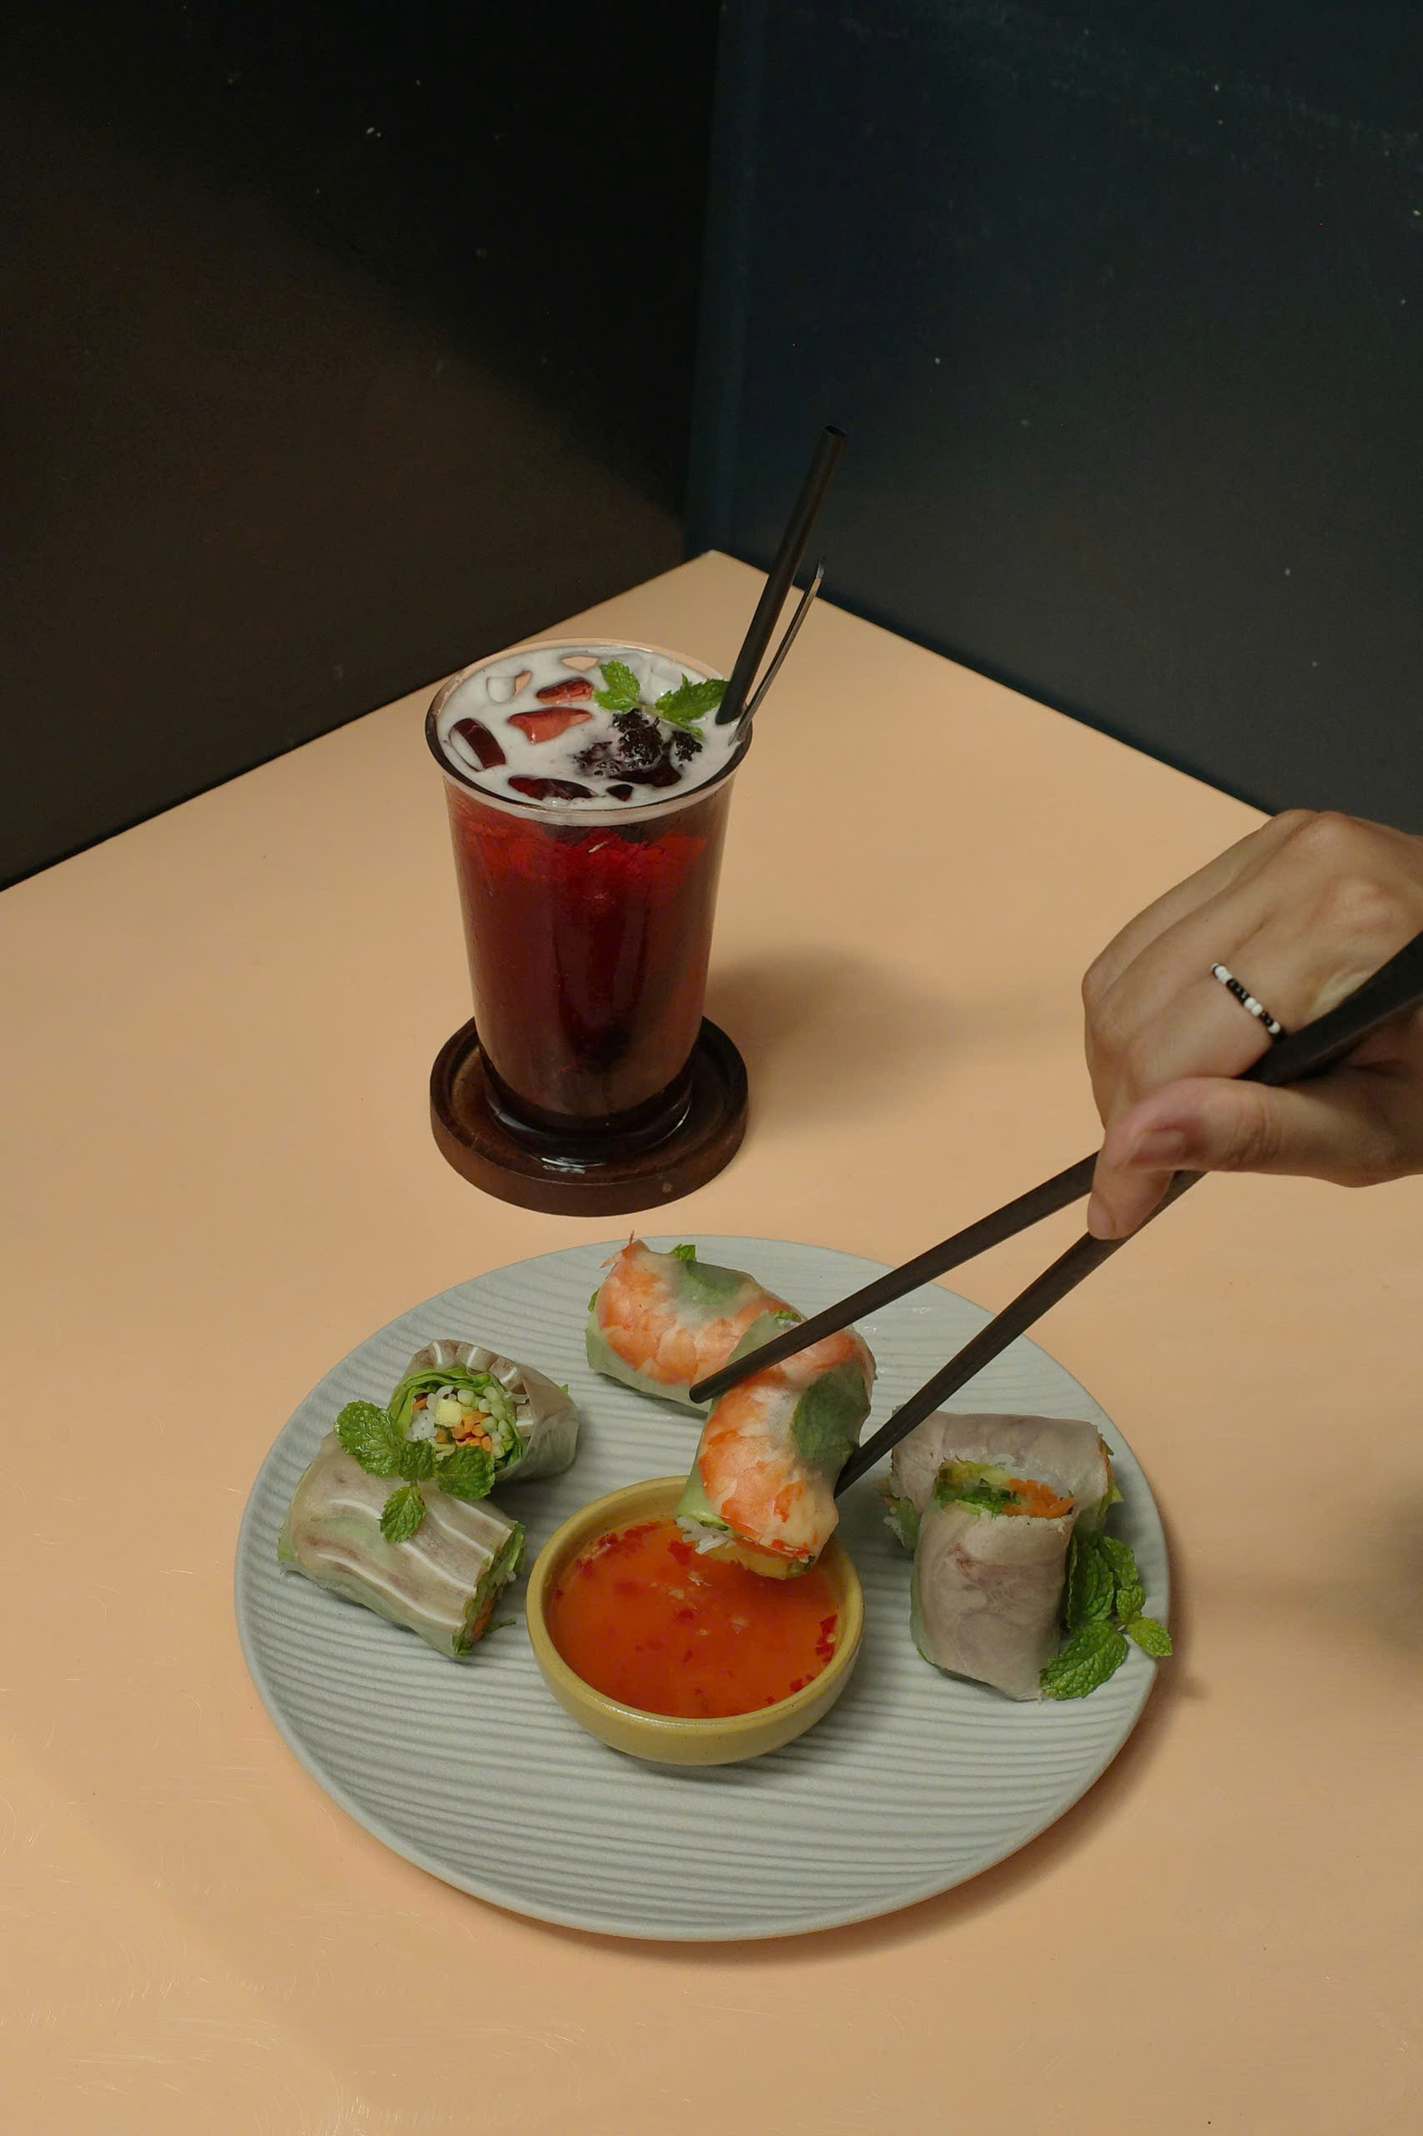
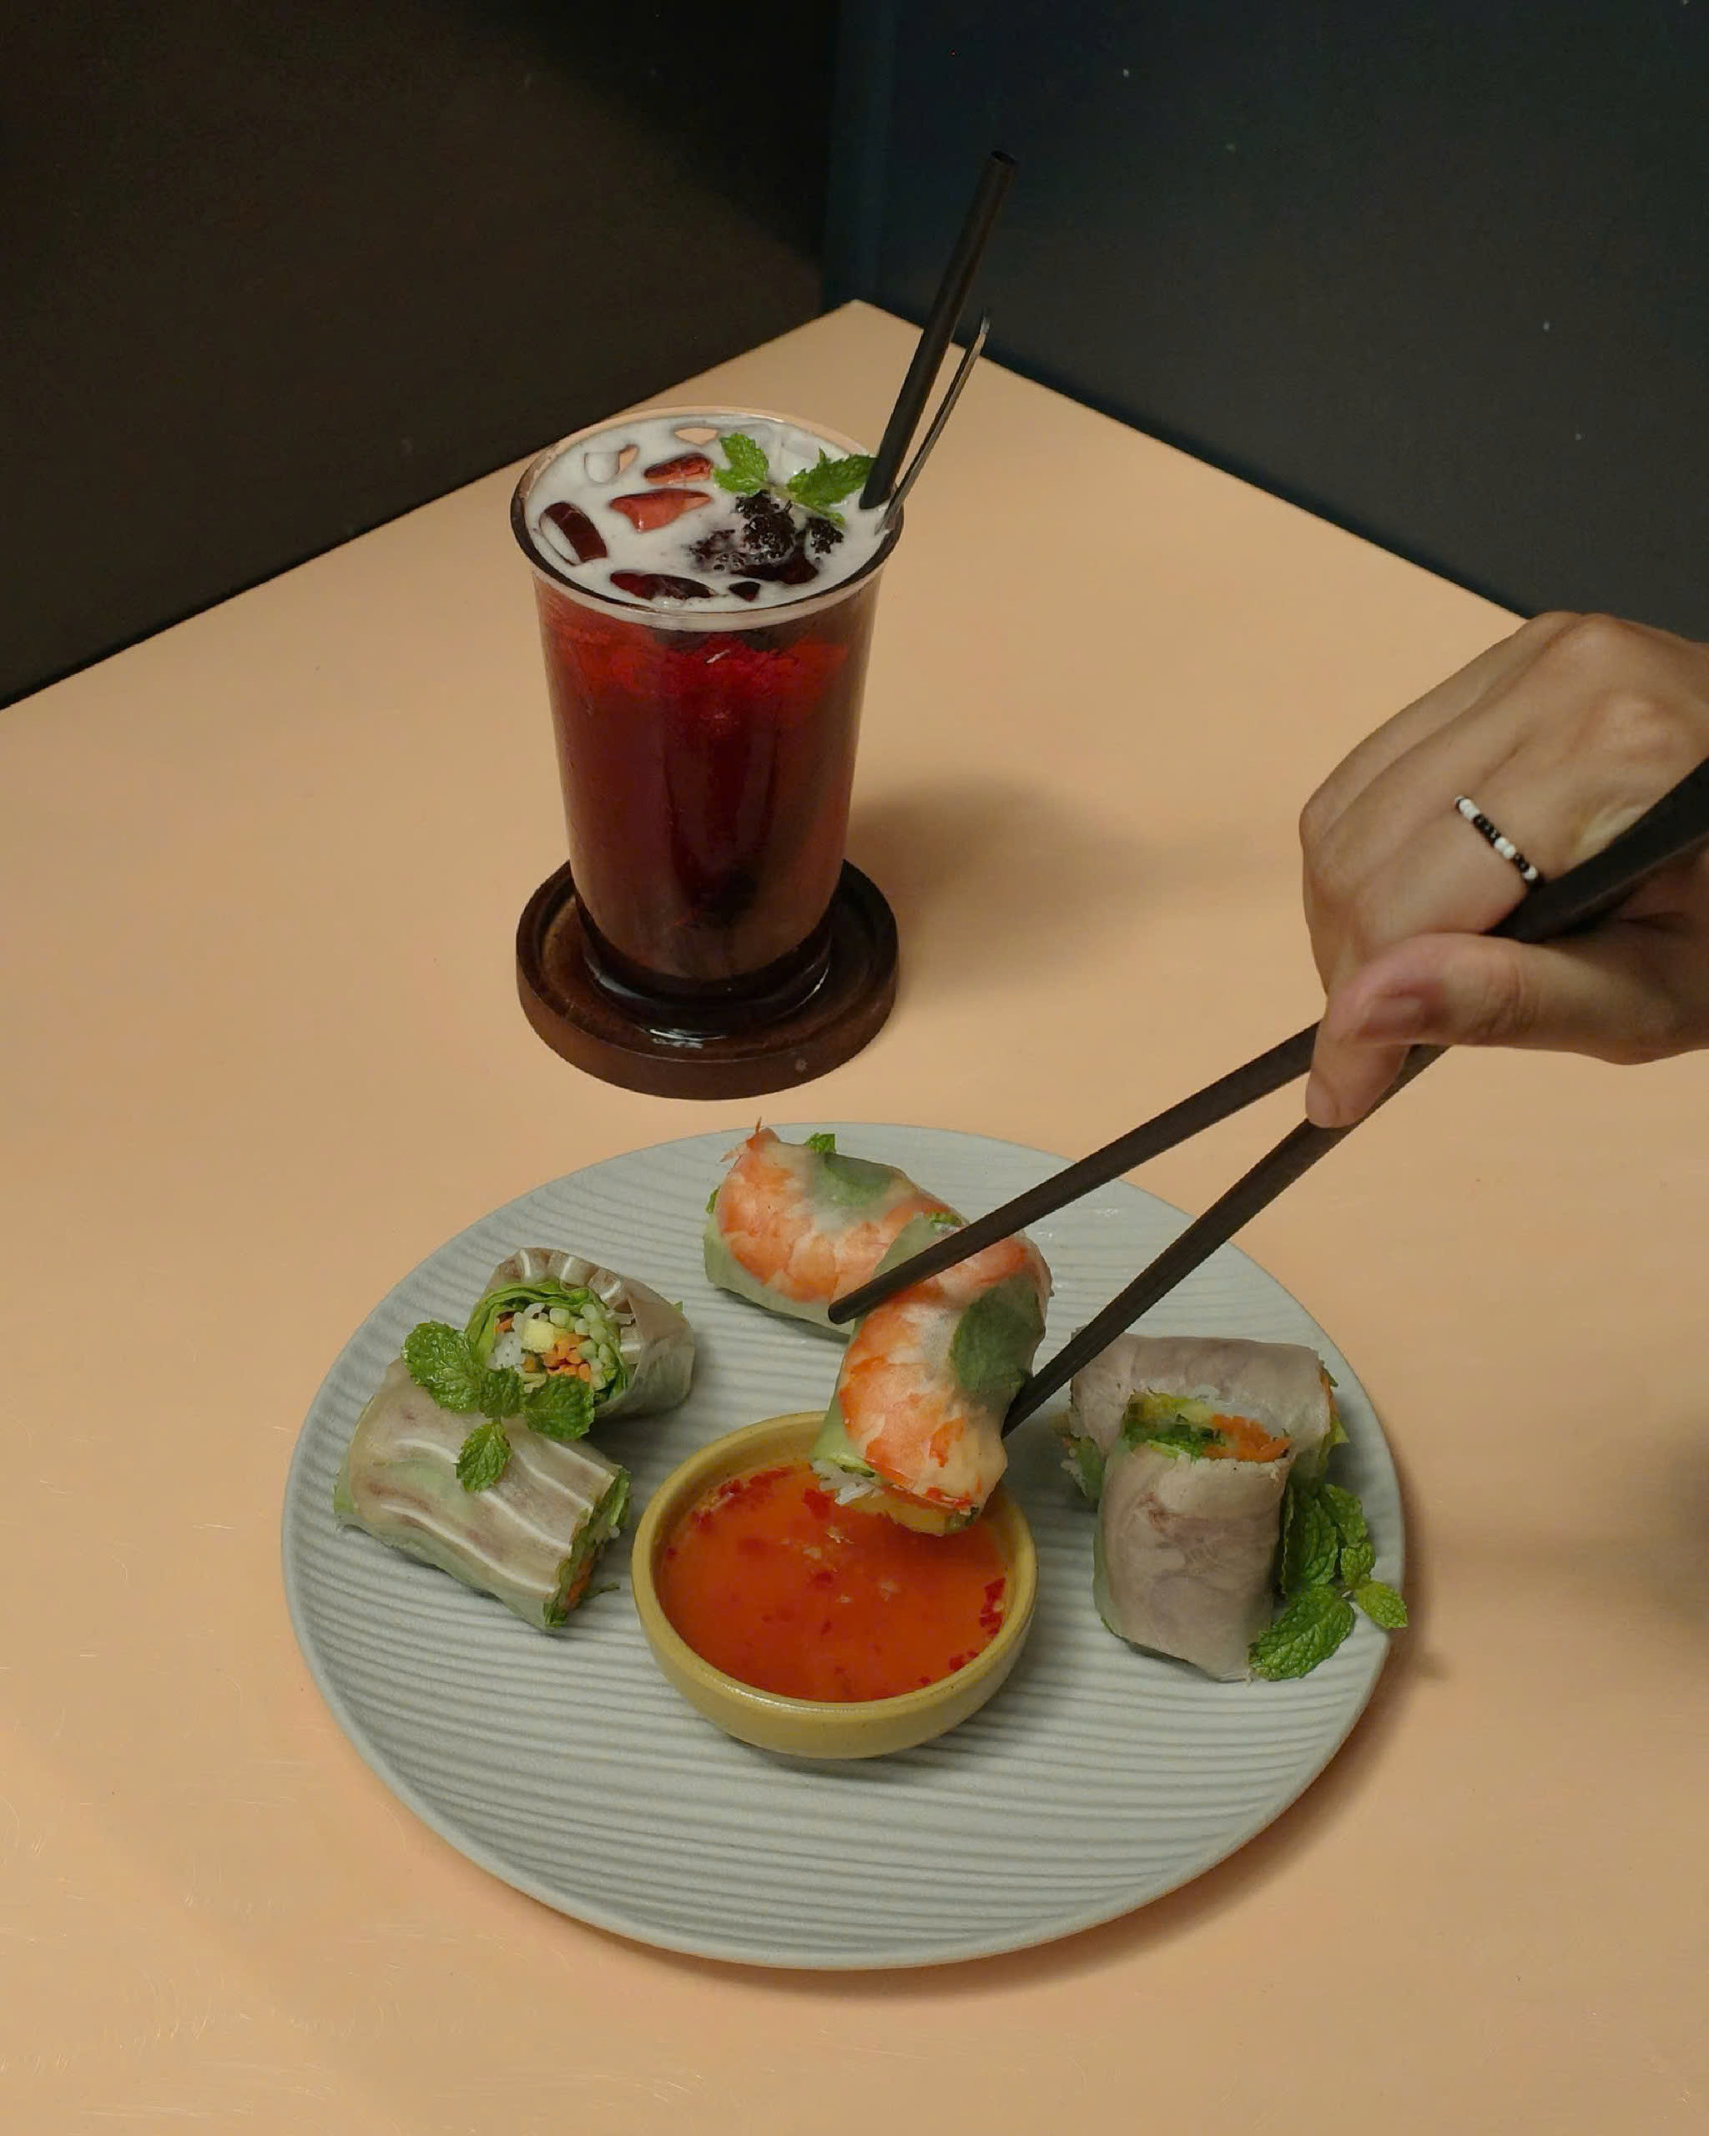
change pic in abt

diff --git a/src/Pages/AboutUs.jsx b/src/Pages/AboutUs.jsx
@@ -3,6 +3,7 @@ import Hero from "../Components/Hero/Hero";
 import { Col, Container, Row } from "react-bootstrap";
 import nguyenlieu from "../Components/Assets/nvl.jpg";
 import roll from "../Components/Assets/roll.jpg";
+import dung from "../Components/Assets/aboutdung.jpg"
 import "../Pages/Css/AboutUs.css";
 
 const AboutUs = () => {
@@ -11,7 +12,14 @@ const AboutUs = () => {
       <Hero />
       <Container fluid="md" className="my-5">
         {/* Nguon nguyen lieu */}
-        <Row className="mb-4"></Row>
+        <Row className="mb-4"> <Col>
+            <img
+              className="ingredient-image"
+              src={dung}
+              alt="dung"
+              loading="lazy"
+            />
+          </Col></Row>
         <Row>
           <Col>
             <p className="text">
@@ -22,6 +30,8 @@ const AboutUs = () => {
             </p>
           </Col>
         </Row>
+
+
         <Row>
           <Col md={7}>
             <h1 className="section-title my-2">
